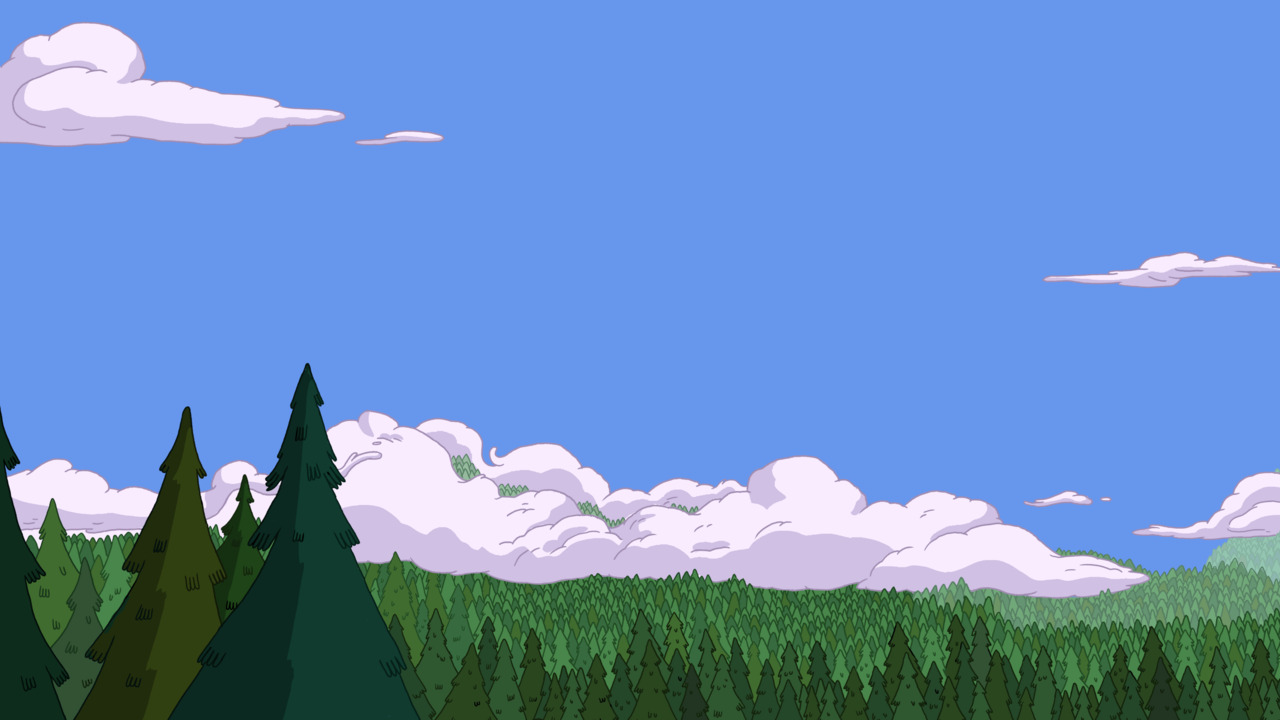
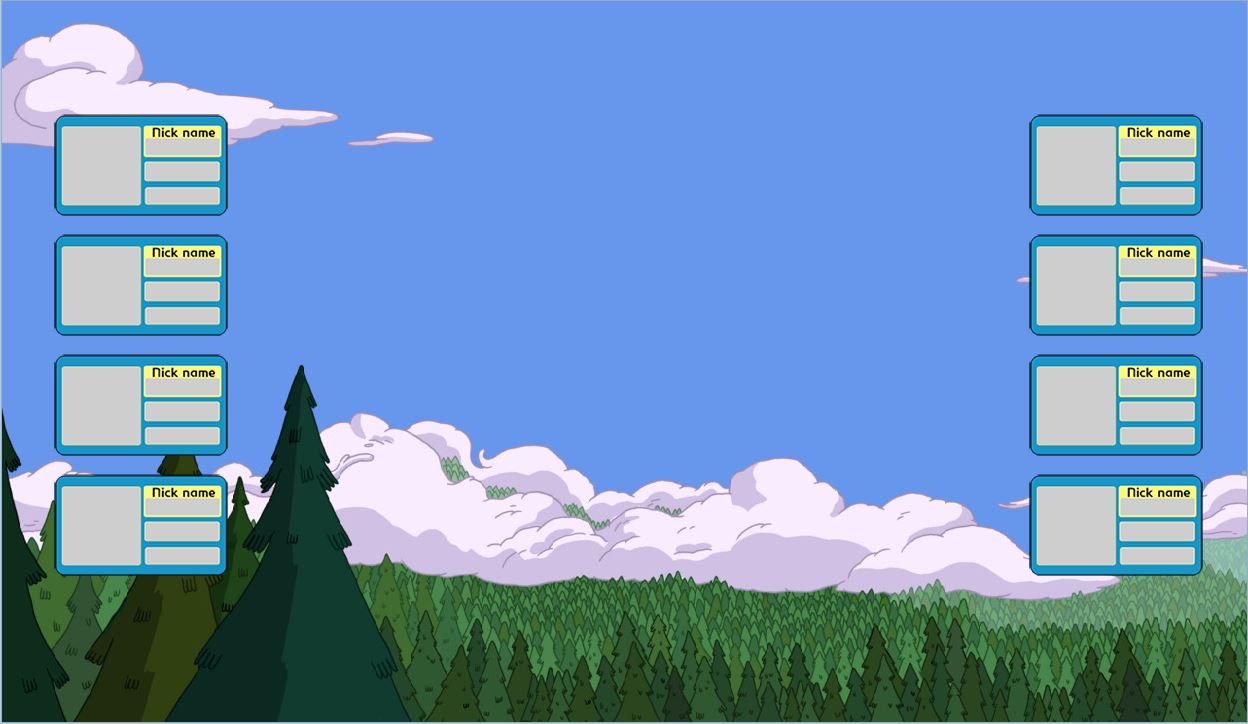
이미지 바꾼거

diff --git a/CatchMeIfYouCan/src/com/sist/Client/Catch_gameroom.java b/CatchMeIfYouCan/src/com/sist/Client/Catch_gameroom.java
@@ -46,8 +46,11 @@ public class Catch_gameroom extends JPanel implements ActionListener{
 		}
 		for(int i=0;i<8;i++)
 		{
+			//ImageIcon img2 = new ImageIcon("image\\nickname.png");
 			char_group[i] = new JPanel();
-			char_group[i].setBackground(Color.blue);
+			char_group[i].setOpaque(false);
+			
+			
 		}
 		for(int i=0;i<8;i++)
 		{
@@ -68,6 +71,7 @@ public class Catch_gameroom extends JPanel implements ActionListener{
 	    char_group[5].setBounds(1025, 230, 180, 110);
 	    char_group[6].setBounds(1025, 350, 180, 110);
 	    char_group[7].setBounds(1025, 470, 180, 110);
+	    
 	    draw.setBounds(265, 110, 725, 370);
 	    timer.setBounds(265, 600, 150, 50);
 	    js3.setBounds(700,500,290,100);

diff --git a/CatchMeIfYouCan/src/com/sist/Vo/CharVO.java b/CatchMeIfYouCan/src/com/sist/Vo/CharVO.java
@@ -1,7 +1,31 @@
 package com.sist.Vo;
 
 public class CharVO {
-	int rank,score;
-	String id,icon;
+	private int rank,score;
+	private String id,icon;
+	public int getRank() {
+		return rank;
+	}
+	public void setRank(int rank) {
+		this.rank = rank;
+	}
+	public int getScore() {
+		return score;
+	}
+	public void setScore(int score) {
+		this.score = score;
+	}
+	public String getId() {
+		return id;
+	}
+	public void setId(String id) {
+		this.id = id;
+	}
+	public String getIcon() {
+		return icon;
+	}
+	public void setIcon(String icon) {
+		this.icon = icon;
+	}
 
 }

diff --git a/CatchMeIfYouCan/src/com/sist/Vo/CharLabelVO.java b/CatchMeIfYouCan/src/com/sist/Vo/CharLabelVO.java
@@ -3,6 +3,7 @@ import javax.swing.*;
 import java.awt.*;
 
 public class CharLabelVO {
-	JLabel state;
-
+	JLabel state,rank,score,id,image;
+	ImageIcon img;
+	
 }
